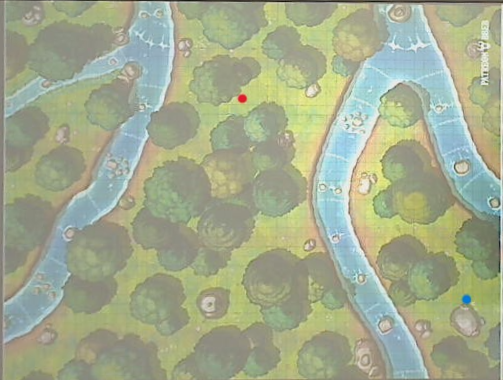
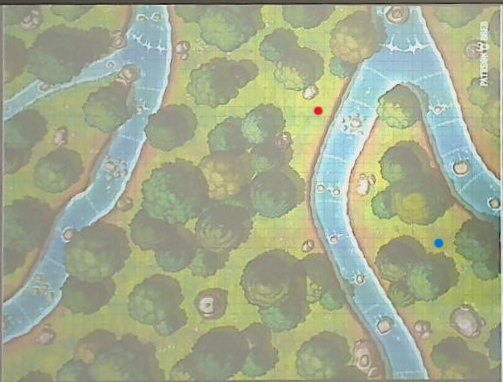
Figure radius works now

diff --git a/GUI.py b/GUI.py
@@ -130,6 +130,8 @@ class Application(tk.Tk):
 # ------------------------------------------------------------------------------ GameLogic ------------------------------------------------------------------------------------- #
     
     def start(self):
+    
+
         if not self.map_path:
             messagebox.showwarning("No Map Selected", "Please select a map file before starting.")
             return
@@ -146,9 +148,11 @@ class Application(tk.Tk):
         print(f"Figure {self.selected_figure.name} on startposition {start_position}")
 
     def next_round(self):
+        
+
         if self.running:
             print(f"Next Round {self.round}")
-
+        
         self.screenshot_next = self.detect_one_position()
         start_position = self.selected_figure.position
         end_position = self.position_detector.detectPosition(self.screenshot_next, self.screenshot_prev)    
@@ -264,55 +268,73 @@ class Application(tk.Tk):
         all_figures_count = len(self.game_field.figures)
         selected_figure = self.game_field.figures[self.round % all_figures_count]
         return selected_figure
-    
-    def draw_figure_radius(self,overlay_path, background, position, factor=1):  
-        factor = 5 * factor
+
+    def draw_figure_radius(self, overlay_path, background, position, factor=1):
+        factor = 5 * factor  # Stretch factor
         # Read the overlay image
         overlay_image = cv2.imread(overlay_path, cv2.IMREAD_UNCHANGED)
         if overlay_image is None:
             print(f"Error: Unable to read overlay image from {overlay_path}")
             return
         # Save the original background image
-        if self.original_background is None:
-            self.original_background = background.copy() #Background muss am Anfang unser scaled_image sein! StartKlick: scaled_image als background // NextRound: Bild mit Overlay als background
-        # Calculate the size of each cell
-        cell_height = background.shape[0] // self.map.num_cells_y  # Number of cells in y-direction
-        cell_width = background.shape[1] // self.map.num_cells_x   # Number of cells in x-direction
-        # Resize the overlay image to the size of a cell
-        overlay_resized = cv2.resize(overlay_image, (cell_width * factor, cell_height * factor), interpolation=cv2.INTER_LINEAR)
+        if not hasattr(self, 'original_background') or self.original_background is None:
+            self.original_background = background.copy()  # Background muss am Anfang unser scaled_image sein! StartKlick: scaled_image als background // NextRound: Bild mit Overlay als background
+        # Calculate the size of each cell with higher precision
+        cell_height = background.shape[0] / self.map.num_cells_y  # Number of cells in y-direction
+        cell_width = background.shape[1] / self.map.num_cells_x   # Number of cells in x-direction
+        print(f"Cell Height: {cell_height}")
+        print(f"Cell Width: {cell_width}")
+        # Resize the overlay image to the size of the factor * cell dimensions
+        overlay_resized = cv2.resize(overlay_image, (int(cell_width * factor), int(cell_height * factor)), interpolation=cv2.INTER_LINEAR)
         # Get the position on the map
         x, y = position
-        x_offset = x * cell_width
-        y_offset = y * cell_height
+        print(f"x, y: {x, y}")
+        # Calculate the center position
+        x_center = x * cell_width + (cell_width / 2)
+        y_center = y * cell_height + (cell_height / 2)
+        print(f"x_center: {x_center}")
+        print(f"y_center: {y_center}")
+        # Calculate the top-left corner of the overlay
+        x_offset = int(x_center - (overlay_resized.shape[1] / 2))
+        y_offset = int(y_center - (overlay_resized.shape[0] / 2))
+        print(f"x_offset: {x_offset}")
+        print(f"y_offset: {y_offset}")
         # Ensure the overlay fits within the background dimensions
         y1, y2 = y_offset, y_offset + overlay_resized.shape[0]
         x1, x2 = x_offset, x_offset + overlay_resized.shape[1]
+        print(f"x1, x2: {x1, x2}")
+        print(f"y1, y2: {y1, y2}")
         y1 = max(y1, 0)
         y2 = min(y2, background.shape[0])
         x1 = max(x1, 0)
         x2 = min(x2, background.shape[1])
-        # Overlay the resized image on the background
-        if overlay_resized.shape[2] == 4:  # If the overlay has an alpha channel
-            alpha_mask = overlay_resized[:, :, 3] / 255.0
-            overlay_colors = overlay_resized[:, :, :3]
+        print(f"Clipped x1, x2: {x1, x2}")
+        print(f"Clipped y1, y2: {y1, y2}")
+        # Clip the overlay image if it goes out of the background boundaries
+        overlay_clipped = overlay_resized[:y2 - y1, :x2 - x1]
+        print(f"Overlay_clipped.shape: {overlay_clipped.shape}")
+        # Check if the clipped overlay fits within the background
+        if overlay_clipped.shape[0] != (y2 - y1) or overlay_clipped.shape[1] != (x2 - x1):
+            print(f"Error: Overlay dimensions {overlay_clipped.shape[:2]} do not match the target area {y2 - y1, x2 - x1}")
+            return
+        if overlay_clipped.shape[2] == 4:  # If the overlay has an alpha channel
+            alpha_mask = overlay_clipped[:, :, 3] / 255.0
+            overlay_colors = overlay_clipped[:, :, :3]
             for c in range(0, 3):
                 background[y1:y2, x1:x2, c] = (1. - alpha_mask) * background[y1:y2, x1:x2, c] + alpha_mask * overlay_colors[:, :, c]
         # Update the Tkinter window
         self.update_tkinter_image(background)
 
-    def remove_figure_radius(self,background): 
-        if original_background is not None:
+    def remove_figure_radius(self, background):
+        if self.original_background is not None:
             background[:, :, :] = self.original_background[:, :, :]
-
         # Update the Tkinter window
         self.update_tkinter_image(background)
 
-    def update_tkinter_image(self,image):
+    def update_tkinter_image(self, image):
         rgb_image = cv2.cvtColor(image, cv2.COLOR_BGR2RGB)
         image_pil = Image.fromarray(rgb_image)
         image_tk = ImageTk.PhotoImage(image_pil)
-
-        # Assuming 'map_label' is a global variable referring to the Tkinter label widget
         self.map_label.config(image=image_tk)
         self.map_label.image = image_tk
 
@@ -470,6 +492,7 @@ class Application(tk.Tk):
 
             cv2.imshow("Adjust Map", rotated_image)
             self.scaled_image = rotated_image
+            self.overlayed_background = self.scaled_image
 
         # Lesen und Anzeigen des Originalbilds
         self.original_image = cv2.imread(self.map_path)
@@ -481,7 +504,7 @@ class Application(tk.Tk):
         cv2.createTrackbar("Scale", "Adjust Map", 100, 200, on_trackbar)
         cv2.createTrackbar("Rotate", "Adjust Map", 0, 3, on_trackbar)  # Slider auf Werte 0 bis 3 beschränken
         
-        self.overlayed_background = self.scaled_image
+        
 
         cv2.waitKey(0)
         cv2.destroyAllWindows()
@@ -692,5 +715,5 @@ class Application(tk.Tk):
 
 #following code is the call for the GUI in game.py
 if __name__ == "__main__":
-    app = Application(30,40)
+    app = Application(100,100)
     app.mainloop()

diff --git a/Figure.py b/Figure.py
@@ -11,7 +11,7 @@ class Figure_Type(Enum):
 
 class Figure(Object):
     id_counters = {type: 0 for type in Figure_Type}
-    def __init__(self,name,type,position,size,initiative):
+    def __init__(self,name,type,position,initiative,size):
         super().__init__(type,position,size)
         self.name = name
         self.size = size
